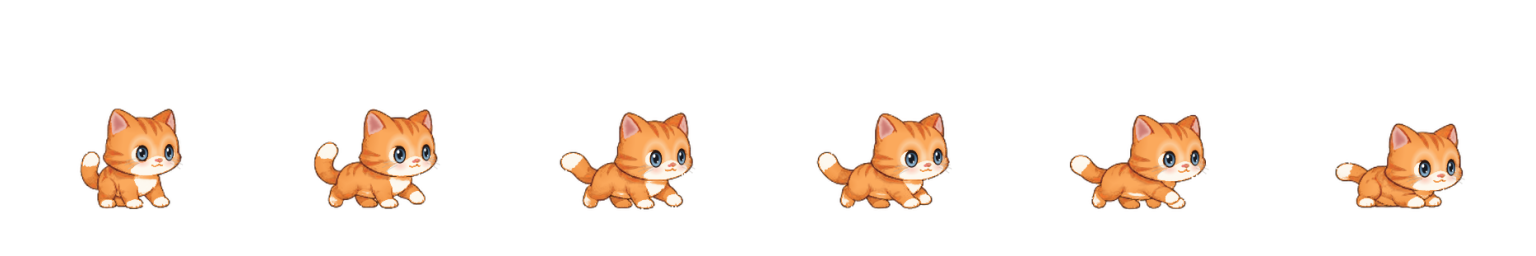
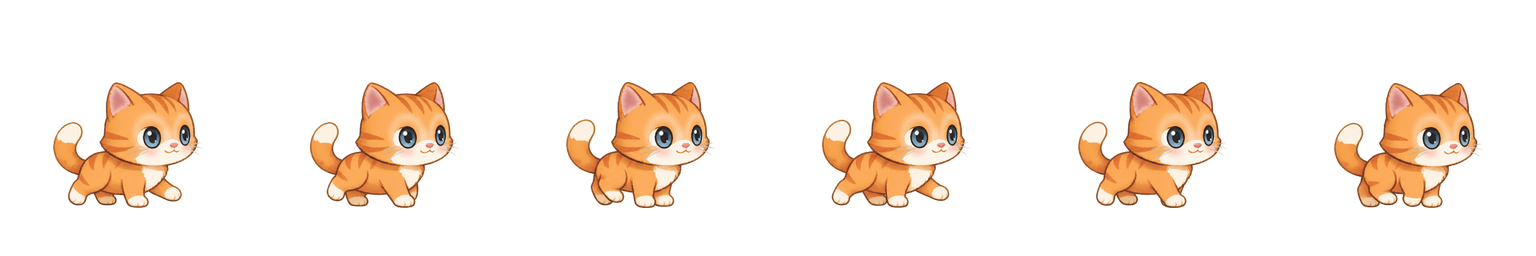
update

diff --git a/lib/ui/widgets/fishing_cave_run.dart b/lib/ui/widgets/fishing_cave_run.dart
@@ -124,9 +124,7 @@ class _FishingCaveRunState extends State<FishingCaveRun> {
           final catSize = 84 * scale;
           final screenCat =
               Offset((cave.cat.dx - camera) * scale, cave.cat.dy * scale);
-          final running = cave.state == CaveRunState.running ||
-              cave.state == CaveRunState.falling;
-          final airborne = !cave.grounded;
+          final pose = _pose(cave);
           final pad = MediaQuery.paddingOf(context);
           return PopScope(
               canPop: false,
@@ -143,28 +141,23 @@ class _FishingCaveRunState extends State<FishingCaveRun> {
                                 cave, _back, _level, scale, camera)))),
                 Positioned(
                     left: screenCat.dx - catSize / 2,
-                    top: screenCat.dy - catSize * .8,
+                    top: screenCat.dy - catSize * .8 + pose.$3 * catSize,
                     child: IgnorePointer(
                         child: Opacity(
                             opacity: cave.hurt > 0 &&
                                     (cave.clock * 16).floor().isEven
                                 ? .35
                                 : 1,
-                            child: Transform.rotate(
-                                angle:
-                                    airborne ? (cave.vy < 0 ? -.15 : .12) : 0,
-                                child: CatSprite(
-                                    type: widget.cat,
-                                    size: catSize,
-                                    action: running ? 'run' : 'idle',
-                                    frames: running ? framesRun : framesIdle,
-                                    frame: airborne
-                                        ? 2
-                                        : (cave.clock * (running ? 14 : 7))
-                                                .floor() %
-                                            (running
-                                                ? framesRun
-                                                : framesIdle)))))),
+                            child: CatSprite(
+                                type: widget.cat,
+                                size: catSize,
+                                action: pose.$1,
+                                frames: pose.$1 == 'jump'
+                                    ? framesJump
+                                    : pose.$1 == 'run'
+                                        ? framesRun
+                                        : framesIdle,
+                                frame: pose.$2)))),
                 Positioned(
                     left: pad.left + 8,
                     top: pad.top + 8,
@@ -207,6 +200,28 @@ class _FishingCaveRunState extends State<FishingCaveRun> {
               ]));
         }));
   }
+}
+
+/// Sheet, frame and vertical correction for the cat. The jump sheet draws
+/// the cat higher in its air frames; [_jumpLift] cancels that so the feet
+/// follow the physics.
+const _jumpLift = [0.0, .075, .19, .1, 0.0, 0.0];
+
+(String, int, double) _pose(FishingCave cave) {
+  final airborne = !cave.grounded || cave.state == CaveRunState.falling;
+  if (airborne) {
+    final frame = cave.vy < -280
+        ? 1
+        : cave.vy < 280
+            ? 2
+            : 3;
+    return ('jump', frame, _jumpLift[frame]);
+  }
+  if (cave.landing > 0) return ('jump', 4, 0);
+  if (cave.state == CaveRunState.running) {
+    return ('run', (cave.clock * 14).floor() % framesRun, 0);
+  }
+  return ('idle', (cave.clock * 7).floor() % framesIdle, 0);
 }
 
 class _CavePainter extends CustomPainter {

diff --git a/lib/fishing/fishing_cave.dart b/lib/fishing/fishing_cave.dart
@@ -67,6 +67,9 @@ class FishingCave {
   CaveRunState state = CaveRunState.ready;
   Offset cat = const Offset(40, floor);
   double vy = 0, clock = 0, runTime = 0, hurt = 0;
+
+  /// Seconds left of the landing pose after touching down.
+  double landing = 0;
   bool grounded = true, doubleJumpUsed = false;
   int checkpoint = 0, falls = 0;
   final collected = <int>{};
@@ -113,6 +116,7 @@ class FishingCave {
   void update(double dt) {
     clock += dt;
     hurt = math.max(0, hurt - dt);
+    landing = math.max(0, landing - dt);
     if (state == CaveRunState.falling) {
       vy += gravity * dt;
       cat += Offset(0, vy * dt);
@@ -136,6 +140,7 @@ class FishingCave {
       }
     }
     final before = cat;
+    final wasGrounded = grounded;
     vy += gravity * dt;
     var next = Offset(cat.dx + speed * dt, cat.dy + vy * dt);
     grounded = false;
@@ -144,6 +149,7 @@ class FishingCave {
         if (next.dx < l.left - 6 || next.dx > l.right + 6) continue;
         if (before.dy <= l.top + .5 && next.dy >= l.top) {
           next = Offset(next.dx, l.top);
+          if (!wasGrounded && vy > 120) landing = .12;
           vy = 0;
           grounded = true;
           doubleJumpUsed = false;

diff --git a/lib/game/constants.dart b/lib/game/constants.dart
@@ -17,6 +17,7 @@ const double maxIdleTime = 2.5;
 const int framesIdle = 6;
 const int framesWalk = 6;
 const int framesRun = 8;
+const int framesJump = 6;
 const int framesTurnAround = 6;
 const int framesDragged = 4;
 const int framesDropSuccess = 5;

diff --git a/lib/ARCHITECTURE.md b/lib/ARCHITECTURE.md
@@ -302,7 +302,7 @@
     `fillPaint`, `strokePaint`, `bankBand`). Mangrove, rocky bay and cave art use
     deterministic `artNoise(i, salt)` for
     species, size, offset and mirroring (cached chunks stay identical each run).
-    The world is 7 x 1800 = 12600 units; the last chunk is open sea east of the island so the lookout view stays centered. Fog saves from shorter worlds load row by row. The island centre is a cartoon rock massif (`fishing_volcano_art.dart`: snow-capped peaks, grassy hill with boulders, pines, a waterfall into a pool and a stream). Its footprint (`FishingIslandVisit.inMountain`) blocks walking and routes go around its foot; `mountainSilhouette()` keeps water effects off the peaks. Tapping it walks to `caveMouth` and opens the cave parkour (`fishing_cave.dart` + `fishing_cave_run.dart`): auto-run, tap to jump/double jump, pits and crystal spikes return to torch checkpoints, golden fish tokens, and a chest whose first clear per day puts 1 + tokens/5 cave fish into the basket. The world pauses while inside, like the cabin. The ashore return button is the `FishingTool.boat` icon. 
+    The world is 7 x 1800 = 12600 units; the last chunk is open sea east of the island so the lookout view stays centered. Fog saves from shorter worlds load row by row. The island centre is a cartoon rock massif (`fishing_volcano_art.dart`: snow-capped peaks, grassy hill with boulders, pines, a waterfall into a pool and a stream). Its footprint (`FishingIslandVisit.inMountain`) blocks walking and routes go around its foot; `mountainSilhouette()` keeps water effects off the peaks. Tapping it walks to `caveMouth` and opens the cave parkour (`fishing_cave.dart` + `fishing_cave_run.dart`): auto-run (`run` sheet), tap to jump/double jump (`jump` sheet: take-off, apex and fall frames chosen by vertical speed with a per-frame lift correction, landing frame for 0.12 s), pits and crystal spikes return to torch checkpoints, golden fish tokens, and a chest whose first clear per day puts 1 + tokens/5 cave fish into the basket. The world pauses while inside, like the cabin. The ashore return button is the `FishingTool.boat` icon. 
     Day/night runs on a 40-minute game day (`FishingLighting.gameHour`, from epoch time so it keeps running while closed; `FishingRiverRound.hour` refreshed every 1 s by the screen; also feeds night fish weights). `fishing_night_overlay.dart` multiplies one tint over the world (`FishingLighting.at`) and adds glows: lighthouse lamp and beam, campfire, ship windows, cave crystals, a soft light around the cat and mangrove fireflies. Village cottage windows glow at night (`fishingCottageWindows`). The cabin follows the same hour (`FishingCabinRoom.hour`): windows show a starry night sea with moon, the rooms stay nearly daylight-bright under a light tint, lanterns and a live bedroom chandelier glow. The old lake sky/ambient painters were removed. Weather (`fishing_weather.dart`) comes from the real clock in 5-minute slots (about 80% sunny, otherwise one slot of cloud/rain/fog; 30 s blend, no save); `round.weather` boosts some fish in `rollFish` and `fishing_weather_overlay.dart` draws cloud shadows, rain streaks and ripples, and fog above the night tint. Effects are kept light; the HUD does not show weather. `fishing_water_art.dart`: `paintWaterBody` (cached; sea-only depth bands, clear shallows, sand ripples, reef shadows, optional region tint; also used by mangrove and rocky bay) and live, view-limited `paintWaterSparkles`, `paintSeaSwells`, `paintShoreWash` and `paintIslandWash`. Region layers are inflated 4 units so their faded edges leave no seam. `fishing_rock_art.dart` holds the warm outlined rock style: `paintBoulder` (all water rocks via `paintRiverRock`, and land outcrops with `inWater: false`), `paintCliffBand` (continuous north cliff, open at the cave inlet, plus a stepped south shelf in the rocky bay) and live `paintRockFoam` rings drawn by `FishingRiverSurface`. Bay sea stacks are `fishingSeaRocks` with radius >= 45, so art, collision and
     minimap share one list. The cave dimming uses an elliptical radial mask.
     `fishing_land_art.dart` fills far land per region (weighted, deterministic
